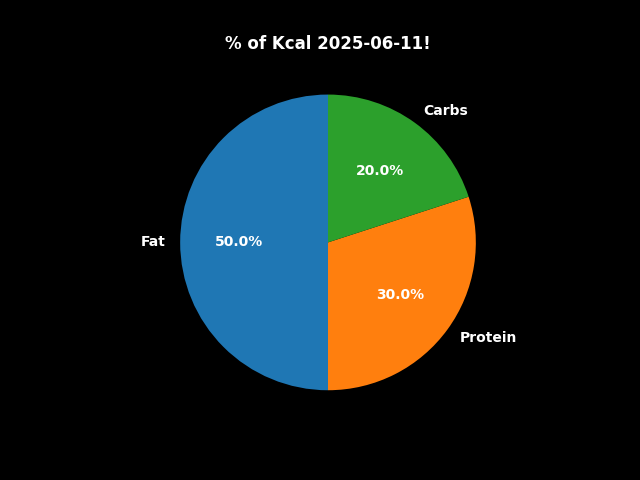
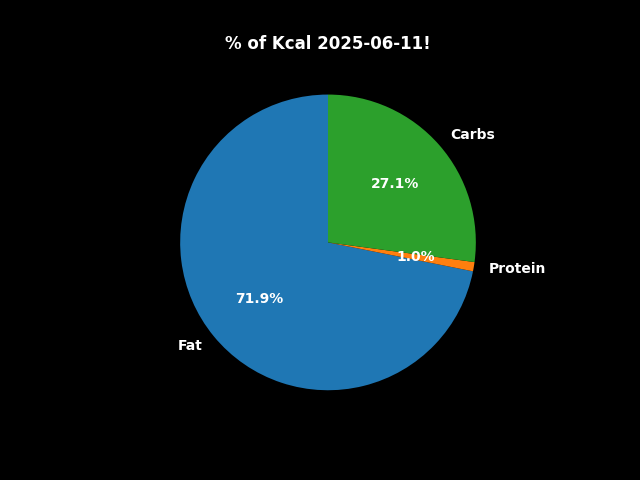
return pie values

diff --git a/src/pie_chart.py b/src/pie_chart.py
@@ -1,6 +1,7 @@
 import matplotlib.pyplot as plt
 import subprocess
 import datetime
+from rich import print
 from src.food_helper import get_kcal_values
 
 def make_pie():
@@ -49,10 +50,14 @@ def get_pie_values() -> list:
     # try open file
     file = "json/2025-06-11.json"
     # calulate total kcal, fat, carbs, prot.
-    values = get_kcal_values(file)
+    v = get_kcal_values(file)
     # return [list]
     # print file values
-    #print(f"Total Kcal: [magenta]{totalKcal:.2f}[/],   Fat: [yellow]{totalFat:.2f}[/],   Carbs: [green]{totalCarbs:.2f}[/],   Prot: [cyan]{totalProt:.2f}[/],")
-    print(values)
+    fat = v[1]*9/v[0]
+    carbs =  v[2]*4/v[0]
+    prot =  v[3]*4/v[0]
+    print("values from file: ", file)
+    print(f"Total g Kcal: [magenta]{v[0]:.2f}[/],   Fat: [yellow]{v[1]:.2f}[/]g,   Carbs: [green]{v[2]:.2f}[/]g,   Prot: [cyan]{v[3]:.2f}[/]g,")
+    print(f"Total % Kcal: [magenta]{v[0]:.2f}[/],   Fat: [yellow]{fat*100:.2f}[/]%,   Carbs: [green]{carbs*100:.2f}[/]%,   Prot: [cyan]{prot*100:.2f}[/]%,")
 
-    return [0.5, 0.3, 0.2]
+    return [fat, carbs, prot]
